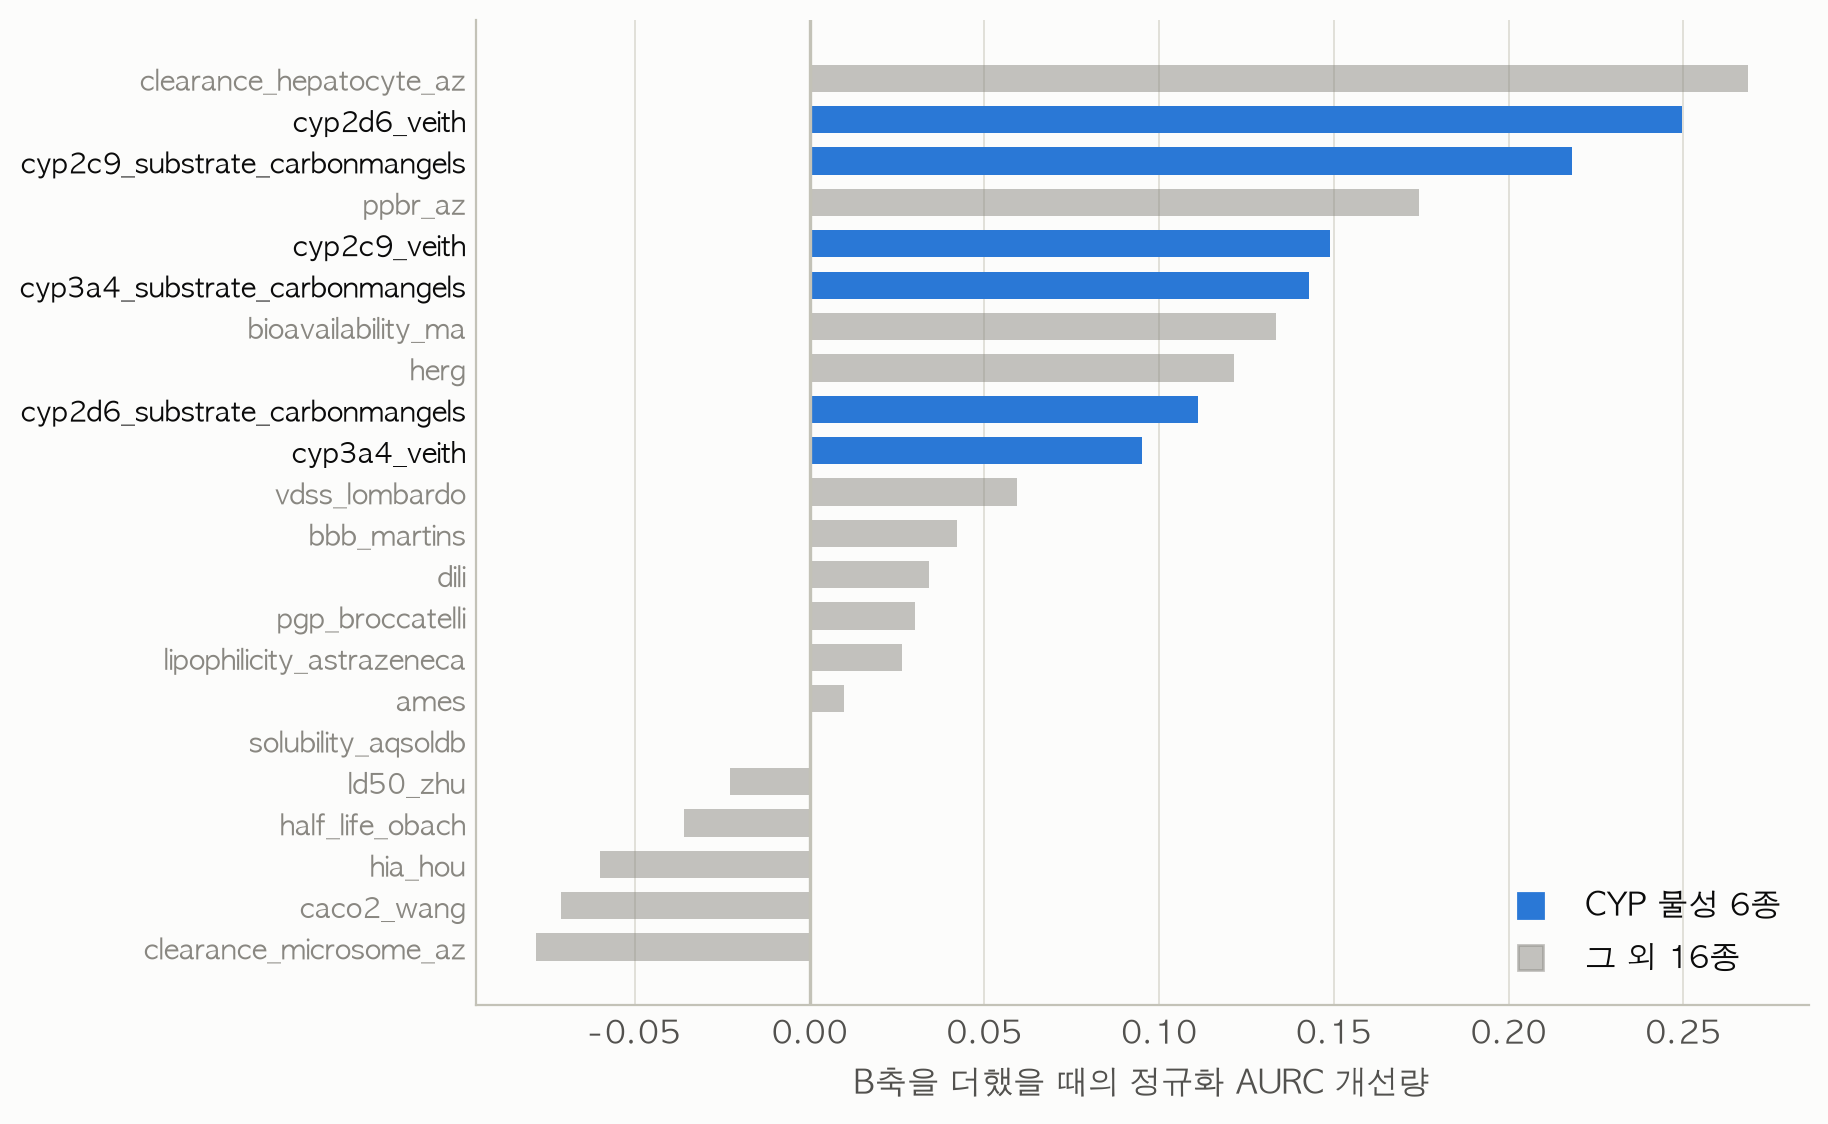
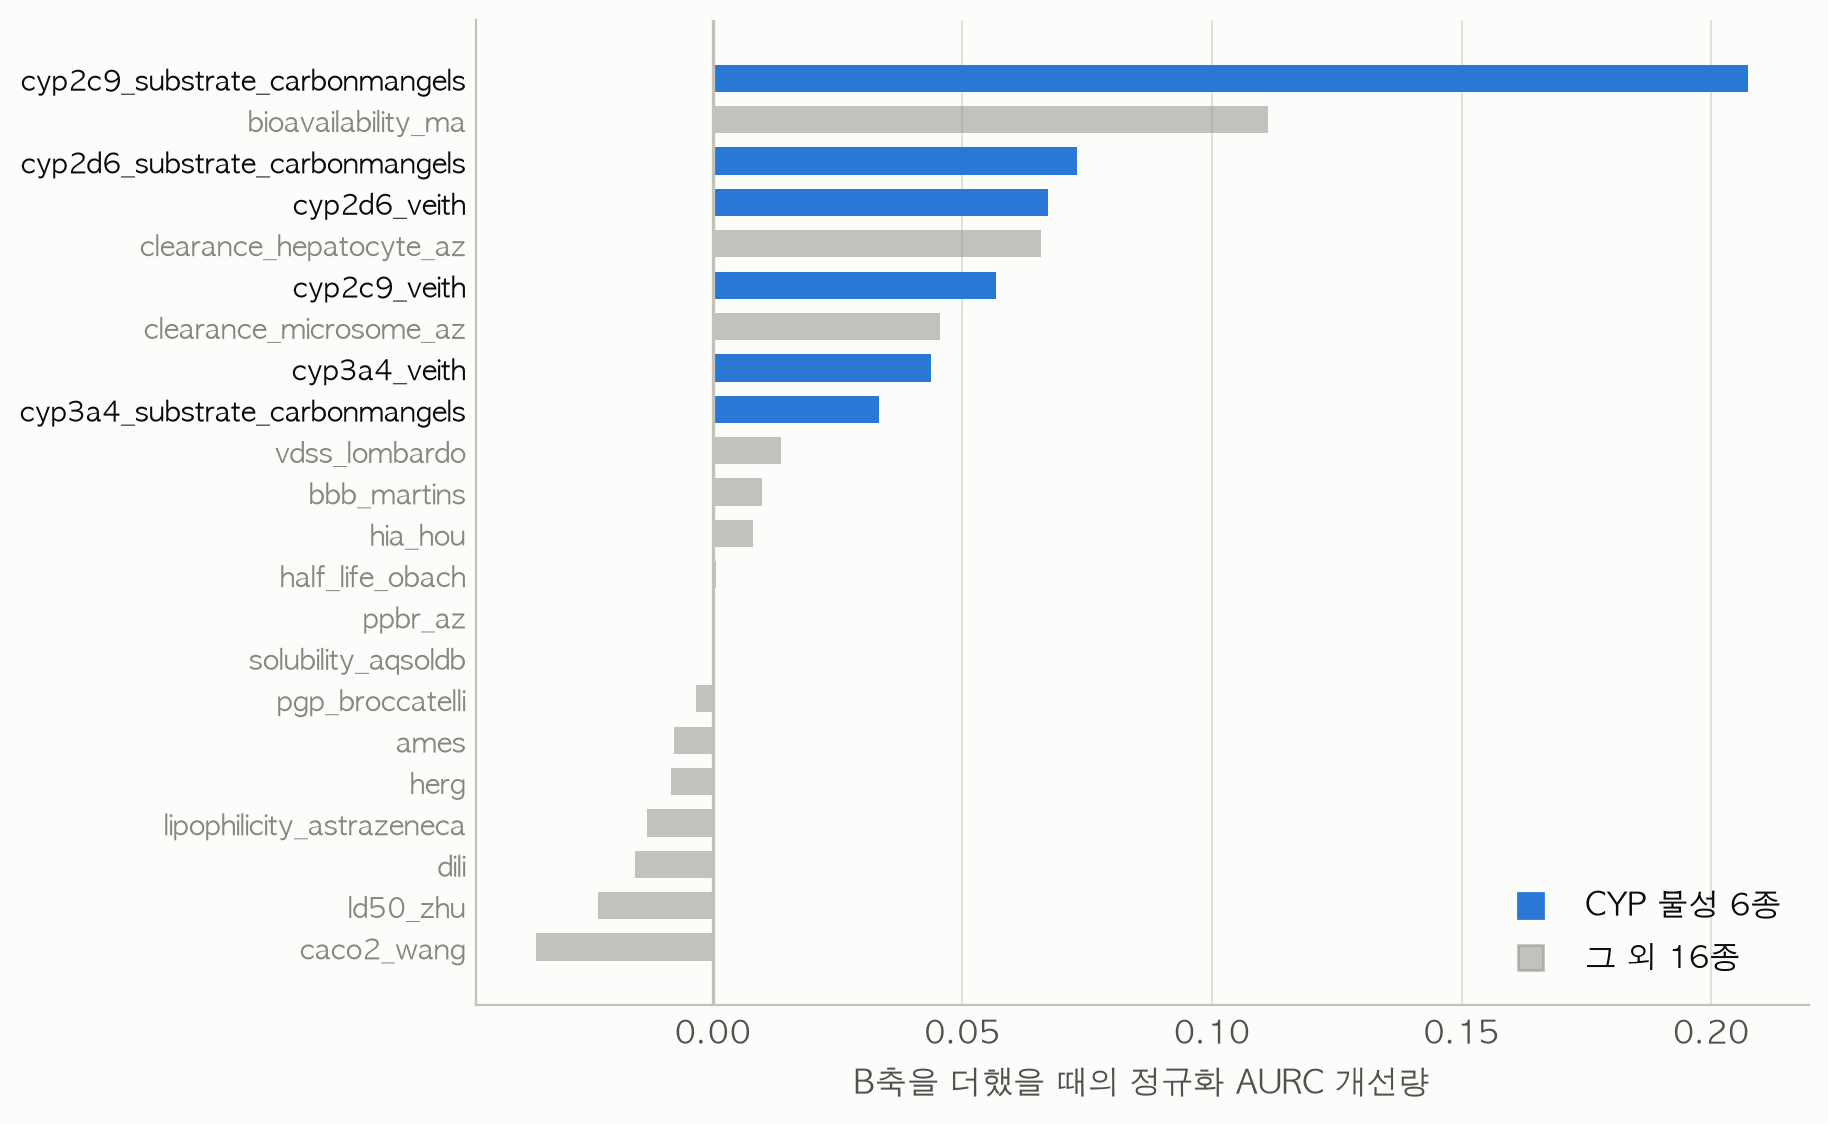
Draw R2 from the pre-registered ablation, and polish the report prose
The R2 figure came from the stage-1 exploration table while section 6.1
quotes the pre-registered ablation, so the bars ran about twice the
numbers printed underneath them. Both now come from the same table.

The prose pass removes everyday vocabulary that does not belong in a
research report: the B axis is now "예측 변동" throughout instead of
"흔들림", and three more idioms go the same way. Long clause chains in
sections 7.2 and 8 are split, and redundant closing verdicts that only
restated their own section headings are gone. Numbers, tables, quotes
and figure filenames are unchanged.

Appendix paths follow the Drive cleanup: figures now live in
docs/figures, intermediate outputs moved under Main/보관, and the code
reference points at main rather than the personal branch.

diff --git a/scripts/make_report_figures.py b/scripts/make_report_figures.py
@@ -77,8 +77,11 @@ def fig_ablation() -> None:
 
 def fig_cyp_split() -> None:
     """물성별 B축 효과. CYP 여섯 종에 몰려 있다는 것이 한눈에 보이게."""
-    table = pd.read_csv(PROC / "scores_role4_r2/explore_fp_only.csv").set_index("dataset")
-    effect = (table["기준"] - table["+B 모양"]).sort_values()
+    # 6.1절 표와 같은 값을 그려야 한다. 그 표는 사전 지정 제거 실험에서 나오므로
+    # 1단계 탐색표(explore_fp_only)를 쓰면 기준선이 달라 그림과 표가 어긋난다.
+    table = pd.read_csv(PROC / "scores_role4_r2/expanded_ablation_22/preregistered_ablation.csv"
+                        ).set_index("dataset")
+    effect = (table["aurc__기준(AD+컨포멀)"] - table["aurc__기준+B"]).sort_values()
     colors = [BLUE if d.startswith("cyp") else GRAY for d in effect.index]
     # 막대마다 투명도를 달리하려면 색에 직접 섞어야 한다. alpha는 목록을 받지 않는다.
     fills = [(*matplotlib.colors.to_rgb(c), 1 if c == BLUE else .5) for c in colors]

diff --git a/CLAUDE.md b/CLAUDE.md
@@ -20,10 +20,10 @@
 
 이 폴더는 Google Drive에 있고 Colab에서 마운트해서 쓴다. 그래서 코드(`scripts/`)·데이터(`data/`)·문서는 이 폴더 안에 두어 Colab이 그대로 읽을 수 있게 한다.
 
-로컬(맥)에서 CLI로 작업할 때 쓰는 Python 가상환경(`.venv`)은 Drive 폴더 밖(`~/.venvs/molecular-reliability-signals`)에 둔다. 가상환경은 파일 수가 많아 Drive 동기화를 심하게 느리게 만들기 때문이다. Colab에서는 이 로컬 venv를 쓰지 않고 노트북 안에서 그때그때 `pip install`한다. 로컬에서 스크립트를 실행할 때는 다음으로 활성화한다.
+로컬(맥)에서 CLI로 작업할 때 쓰는 Python 가상환경(`.venv`)은 Drive 폴더 밖(`~/.venvs/mist`)에 둔다. 가상환경은 파일 수가 많아 Drive 동기화를 심하게 느리게 만들기 때문이다. Colab에서는 이 로컬 venv를 쓰지 않고 노트북 안에서 그때그때 `pip install`한다. 로컬에서 스크립트를 실행할 때는 다음으로 활성화한다.
 
 ```bash
-source ~/.venvs/molecular-reliability-signals/bin/activate
+source ~/.venvs/mist/bin/activate
 ```
 
 ## 문서·자료 구조
